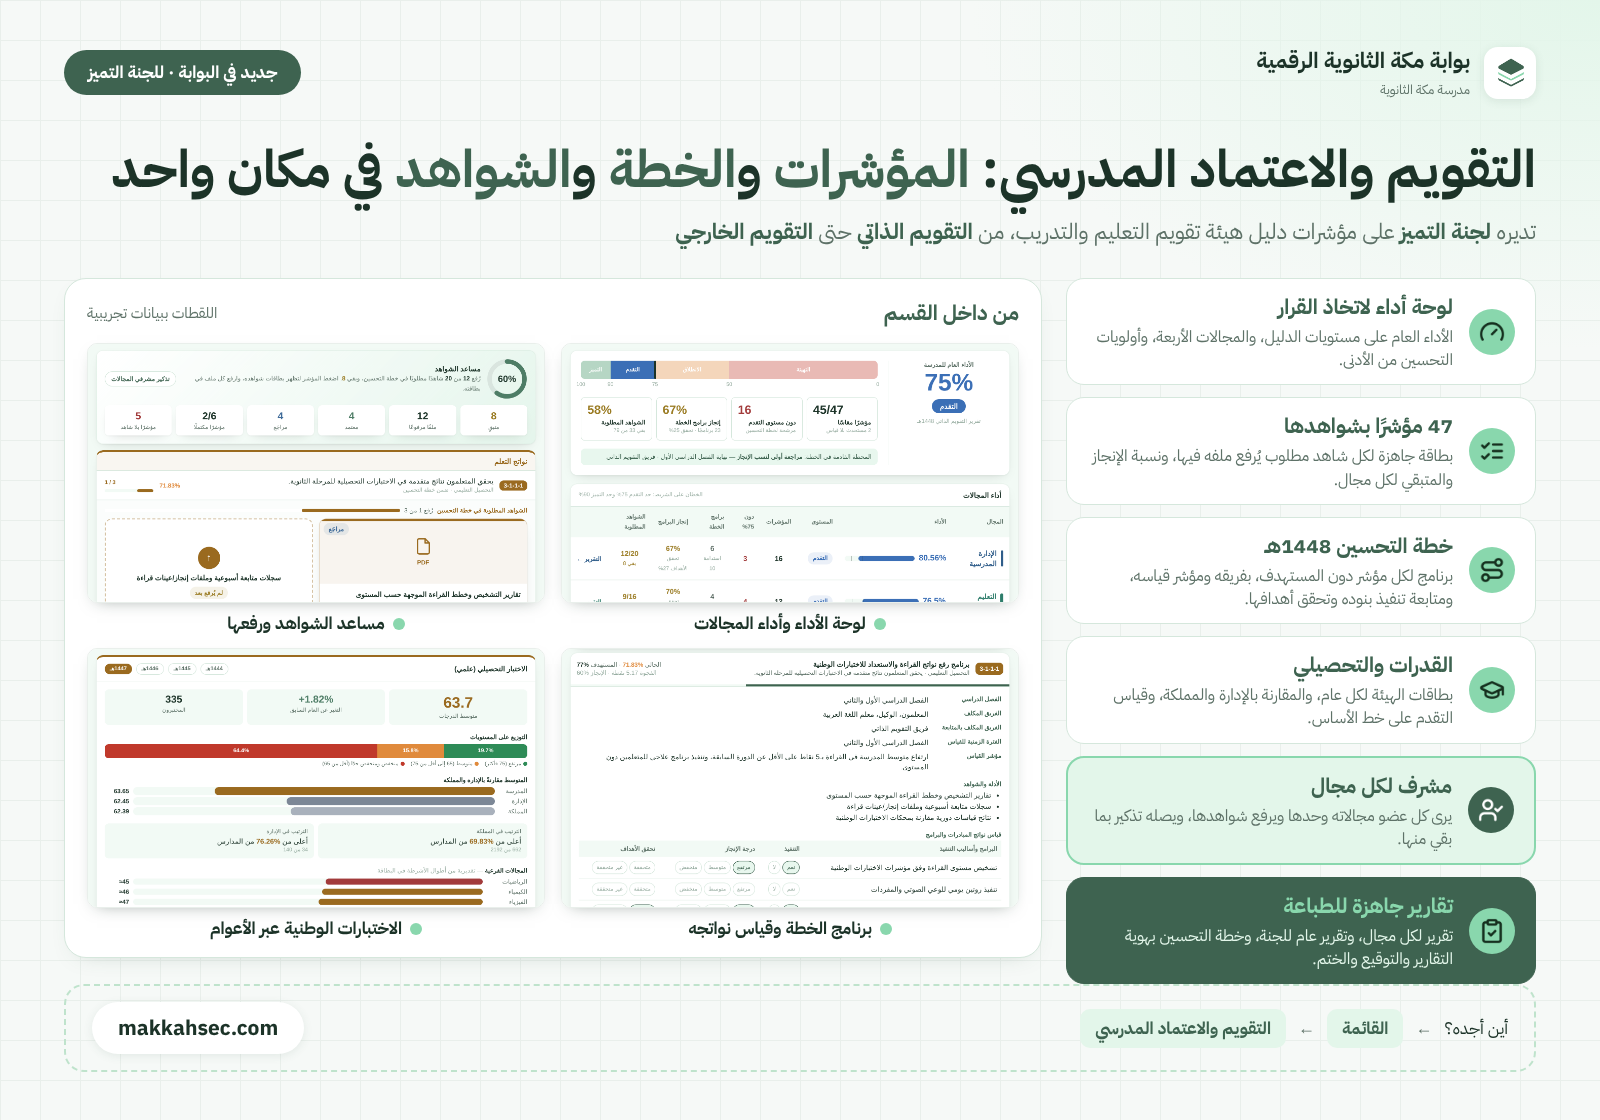
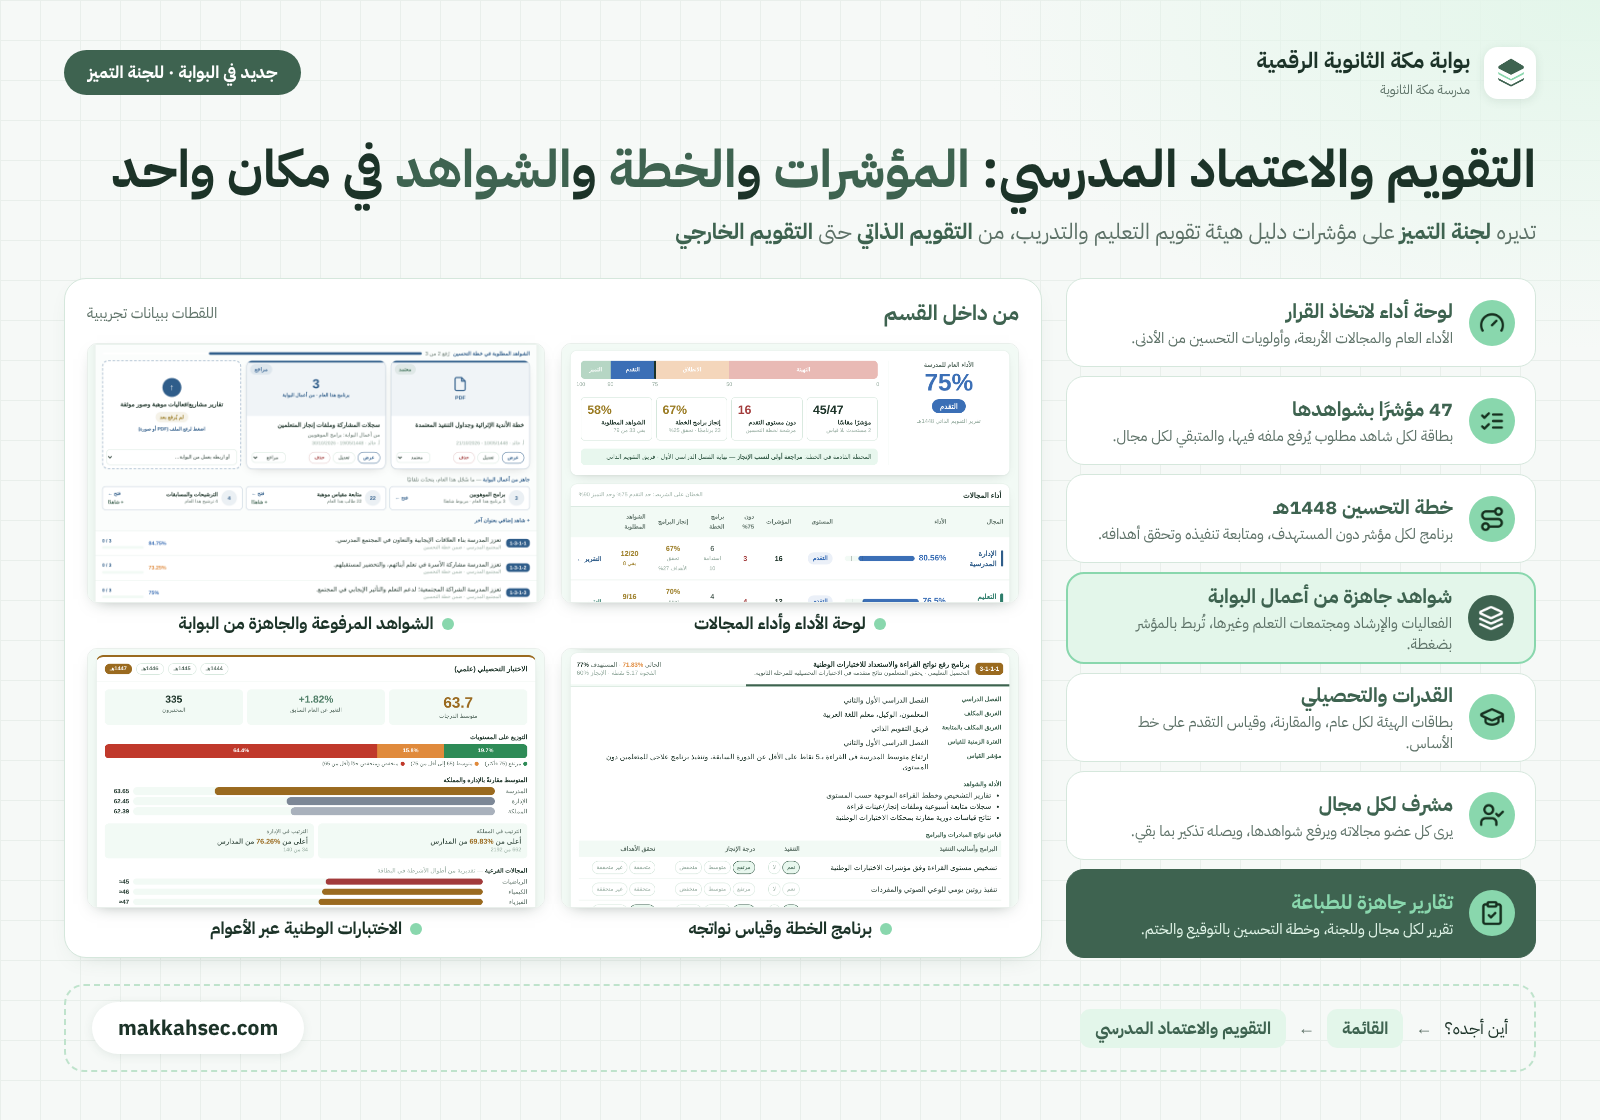
منشور التقويم والاعتماد: بطاقة «شواهد جاهزة من أعمال البوابة»، ولقطة الشواهد بالمربوط منها والجاهز من البوابة، وتقصير نصوص البطاقات لتتسع السبع، ونقطة الربط في نص واتساب
Claude-Session: https://claude.ai/code/session_01QSyof6MRq6wPBASUtQmhEF

Changed region(s): [[0.6562, 0.25, 0.9688, 0.9062], [0.0625, 0.3125, 0.3438, 0.5625]]

diff --git a/docs/accreditation-post/post.html b/docs/accreditation-post/post.html
@@ -50,6 +50,7 @@ h1 em{font-style:normal;color:#3E6350}
 .path span.ch{background:#E3F6EA;border-radius:10px;padding:7px 15px;font-weight:700;color:#3E6350}
 .path .ar{color:#5E7268}
 .url{background:#fff;border-radius:99px;padding:10px 26px;font-weight:700;font-size:21px;box-shadow:0 2px 10px rgba(62,99,80,.1);direction:ltr}
+.feats{gap:9px;min-height:0}.c{padding:6px 20px;min-height:0}.c b{font-size:20px}.c p{font-size:15px;margin-top:2px;line-height:1.4}
 </style></head><body>
 <!-- منشور «التقويم والاعتماد المدرسي» (١٦٠٠ × ١١٢٠) بقالب منشورات البوابة (docs/activities-post/post.html) بالنسخة الفاتحة: للجنة التميز والقيادة المدرسية، بلقطات من القسم ببيانات تجريبية. -->
 <div class="top">
@@ -61,18 +62,19 @@ h1 em{font-style:normal;color:#3E6350}
 
 <div class="row">
  <div class="feats">
-  <div class="c"><i><img src="../model-lesson/build/icons/Gauge.png"></i><div><b>لوحة أداء لاتخاذ القرار</b><p>الأداء العام على مستويات الدليل، والمجالات الأربعة، وأولويات التحسين من الأدنى.</p></div></div>
-  <div class="c"><i><img src="../model-lesson/build/icons/ListChecks.png"></i><div><b>47 مؤشرًا بشواهدها</b><p>بطاقة جاهزة لكل شاهد مطلوب يُرفع ملفه فيها، ونسبة الإنجاز والمتبقي لكل مجال.</p></div></div>
-  <div class="c"><i><img src="../model-lesson/build/icons/Route.png"></i><div><b>خطة التحسين 1448هـ</b><p>برنامج لكل مؤشر دون المستهدف، بفريقه ومؤشر قياسه، ومتابعة تنفيذ بنوده وتحقق أهدافها.</p></div></div>
-  <div class="c"><i><img src="../model-lesson/build/icons/GraduationCap.png"></i><div><b>القدرات والتحصيلي</b><p>بطاقات الهيئة لكل عام، والمقارنة بالإدارة والمملكة، وقياس التقدم على خط الأساس.</p></div></div>
-  <div class="c ev"><i><img src="../model-lesson/build/icons/UserCheck.png"></i><div><b>مشرف لكل مجال</b><p>يرى كل عضو مجالاته وحدها ويرفع شواهدها، ويصله تذكير بما بقي منها.</p></div></div>
-  <div class="c dk"><i><img src="../model-lesson/build/icons/ClipboardCheck.png"></i><div><b>تقارير جاهزة للطباعة</b><p>تقرير لكل مجال، وتقرير عام للجنة، وخطة التحسين بهوية التقارير والتوقيع والختم.</p></div></div>
+  <div class="c"><i><img src="../model-lesson/build/icons/Gauge.png"></i><div><b>لوحة أداء لاتخاذ القرار</b><p>الأداء العام والمجالات الأربعة، وأولويات التحسين من الأدنى.</p></div></div>
+  <div class="c"><i><img src="../model-lesson/build/icons/ListChecks.png"></i><div><b>47 مؤشرًا بشواهدها</b><p>بطاقة لكل شاهد مطلوب يُرفع ملفه فيها، والمتبقي لكل مجال.</p></div></div>
+  <div class="c"><i><img src="../model-lesson/build/icons/Route.png"></i><div><b>خطة التحسين 1448هـ</b><p>برنامج لكل مؤشر دون المستهدف، ومتابعة تنفيذه وتحقق أهدافه.</p></div></div>
+  <div class="c ev"><i><img src="../model-lesson/build/icons/Layers.png"></i><div><b>شواهد جاهزة من أعمال البوابة</b><p>الفعاليات والإرشاد ومجتمعات التعلم وغيرها، تُربط بالمؤشر بضغطة.</p></div></div>
+  <div class="c"><i><img src="../model-lesson/build/icons/GraduationCap.png"></i><div><b>القدرات والتحصيلي</b><p>بطاقات الهيئة لكل عام، والمقارنة، وقياس التقدم على خط الأساس.</p></div></div>
+  <div class="c"><i><img src="../model-lesson/build/icons/UserCheck.png"></i><div><b>مشرف لكل مجال</b><p>يرى كل عضو مجالاته ويرفع شواهدها، ويصله تذكير بما بقي.</p></div></div>
+  <div class="c dk"><i><img src="../model-lesson/build/icons/ClipboardCheck.png"></i><div><b>تقارير جاهزة للطباعة</b><p>تقرير لكل مجال وللجنة، وخطة التحسين بالتوقيع والختم.</p></div></div>
  </div>
  <div class="shots">
   <div class="ph"><b>من داخل القسم</b><span>اللقطات ببيانات تجريبية</span></div>
   <div class="grid">
    <div class="v"><img src="shots/dash.png"><p><i></i>لوحة الأداء وأداء المجالات</p></div>
-   <div class="v"><img src="shots/ind.png"><p><i></i>مساعد الشواهد ورفعها</p></div>
+   <div class="v"><img src="shots/ind.png"><p><i></i>الشواهد المرفوعة والجاهزة من البوابة</p></div>
    <div class="v"><img src="shots/plan.png"><p><i></i>برنامج الخطة وقياس نواتجه</p></div>
    <div class="v"><img src="shots/nat.png"><p><i></i>الاختبارات الوطنية عبر الأعوام</p></div>
   </div>
